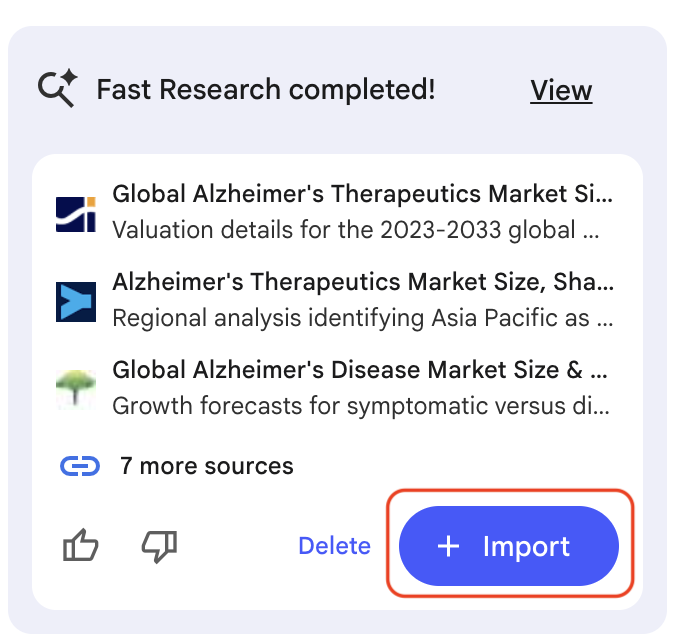
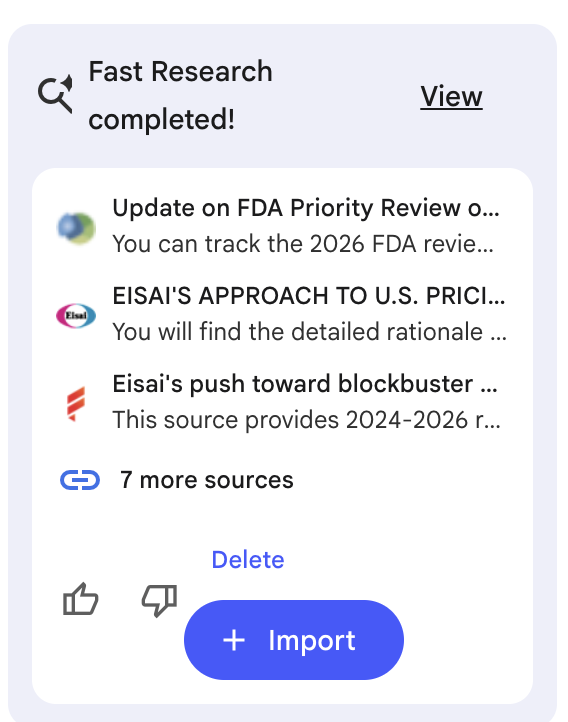
Course 3 Lab 3

diff --git a/3-streamlining-workflows-with-notebooklm/3-search-the-web-for-sources/search-the-web-for-sources.md b/3-streamlining-workflows-with-notebooklm/3-search-the-web-for-sources/search-the-web-for-sources.md
@@ -15,7 +15,7 @@ In this lab, you will use NotebookLM's built-in web search feature to find and a
 ## Scenario
 
 <p align="left">
-  <img src="images/cymbal-pharma-logo.png" width="50%" alt="Cymbal Pharma Logo" />
+  <img src="images/cymbal-pharma-logo.png" width="25%" alt="Cymbal Pharma Logo" />
 </p>
 
 You are the Director of Business Development and Investor Relations at Cymbal Pharma. The company is preparing a **Series B funding pitch** to raise $45 million for CPH-412's upcoming Phase 1b trial.
@@ -100,35 +100,45 @@ NotebookLM can search the internet and add live pages directly to your notebook 
 
    **Search 1 — Biogen Alzheimer's treatments:**
 
+   Paste the following prompt in the web search box and run it. 
+
    ```text
    Biogen lecanemab Alzheimer's FDA approval pricing 2024
    ```
 
-   Look for results covering FDA approval status, list price, and real-world adoption.
+   <p align="left">
+     <img src="images/search-results.png" width="65%" alt="Web search results with sources ready to add" />
+     <br><em>Search results</em>
+   </p>
+
+   Click the __more sources__ link to see all the results. You can select all the results or only those you find most relevant. Look for results covering FDA approval status, list price, and real-world adoption and select those (_or just select them all_).
+
+      <p align="left">
+     <img src="images/select-search-results.png" width="65%" alt="Web search results with sources ready to add" />
+     <br><em>Review search results and add the most relevant sources to your notebook</em>
+   </p>
 
    **Search 2 — Eli Lilly Alzheimer's treatment:**
+
+   Run the following search and select the most relevant results (_or all of them_).   Look for results covering trial outcomes, approval timeline, and pricing.
 
    ```text
    Eli Lilly donanemab Alzheimer's FDA approval clinical trial results
    ```
 
-   Look for results covering trial outcomes, approval timeline, and pricing.
-
    **Search 3 — Alzheimer's market size:**
+
+   Run the following search and select the most relevant results (_or all of them_). Look for market research results with total addressable market (TAM) figures and growth projections.
+
 
    ```text
    Alzheimer's disease treatment market size forecast 2024 2030
    ```
 
-   Look for market research results with total addressable market (TAM) figures and growth projections.
-
-   <p align="left">
-     <img src="images/search-results.png" width="65%" alt="Web search results with sources ready to add" />
-     <br><em>Review search results and add the most relevant sources to your notebook</em>
-   </p>
-
+   
    > [!NOTE]
    > Choose sources from credible outlets — FDA press releases, pharma news publications (FiercePharma, STAT News, BioPharma Dive), financial filings, and market research firms tend to produce the best-cited answers. You can always add more sources later.
+
 
 4. Your notebook should now contain Cymbal's internal brief alongside live web sources on competitor drugs and the Alzheimer's market.
 